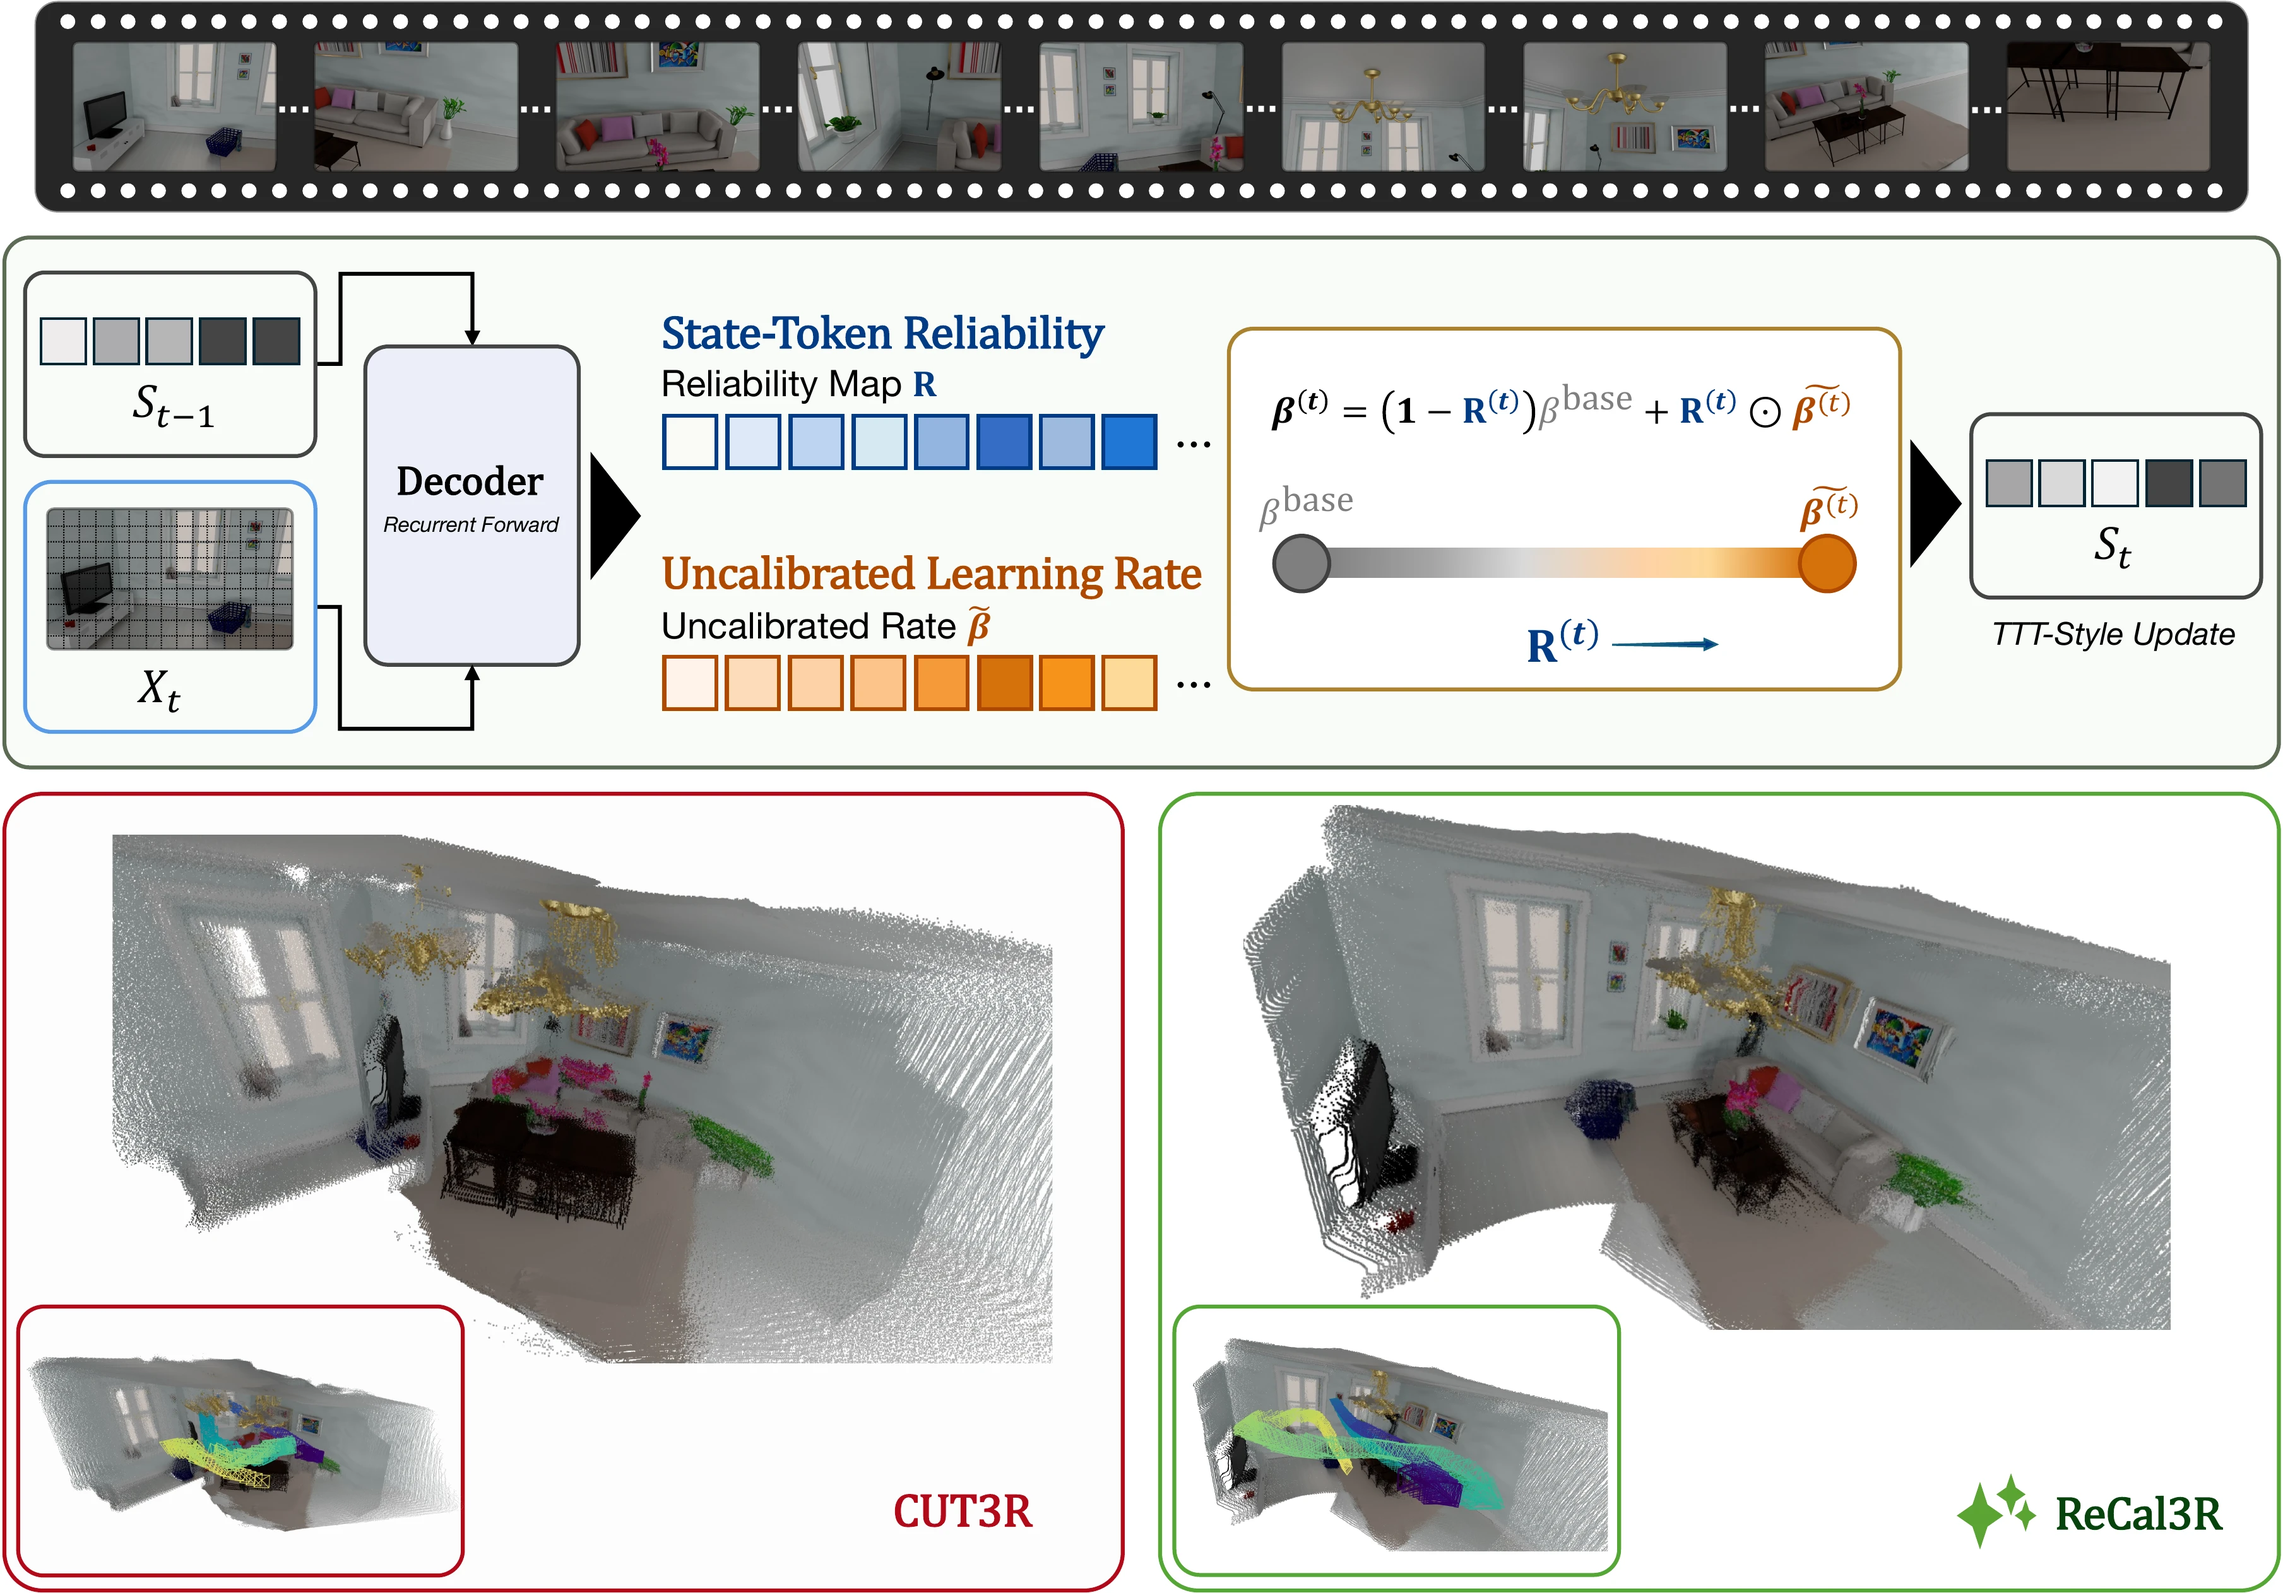
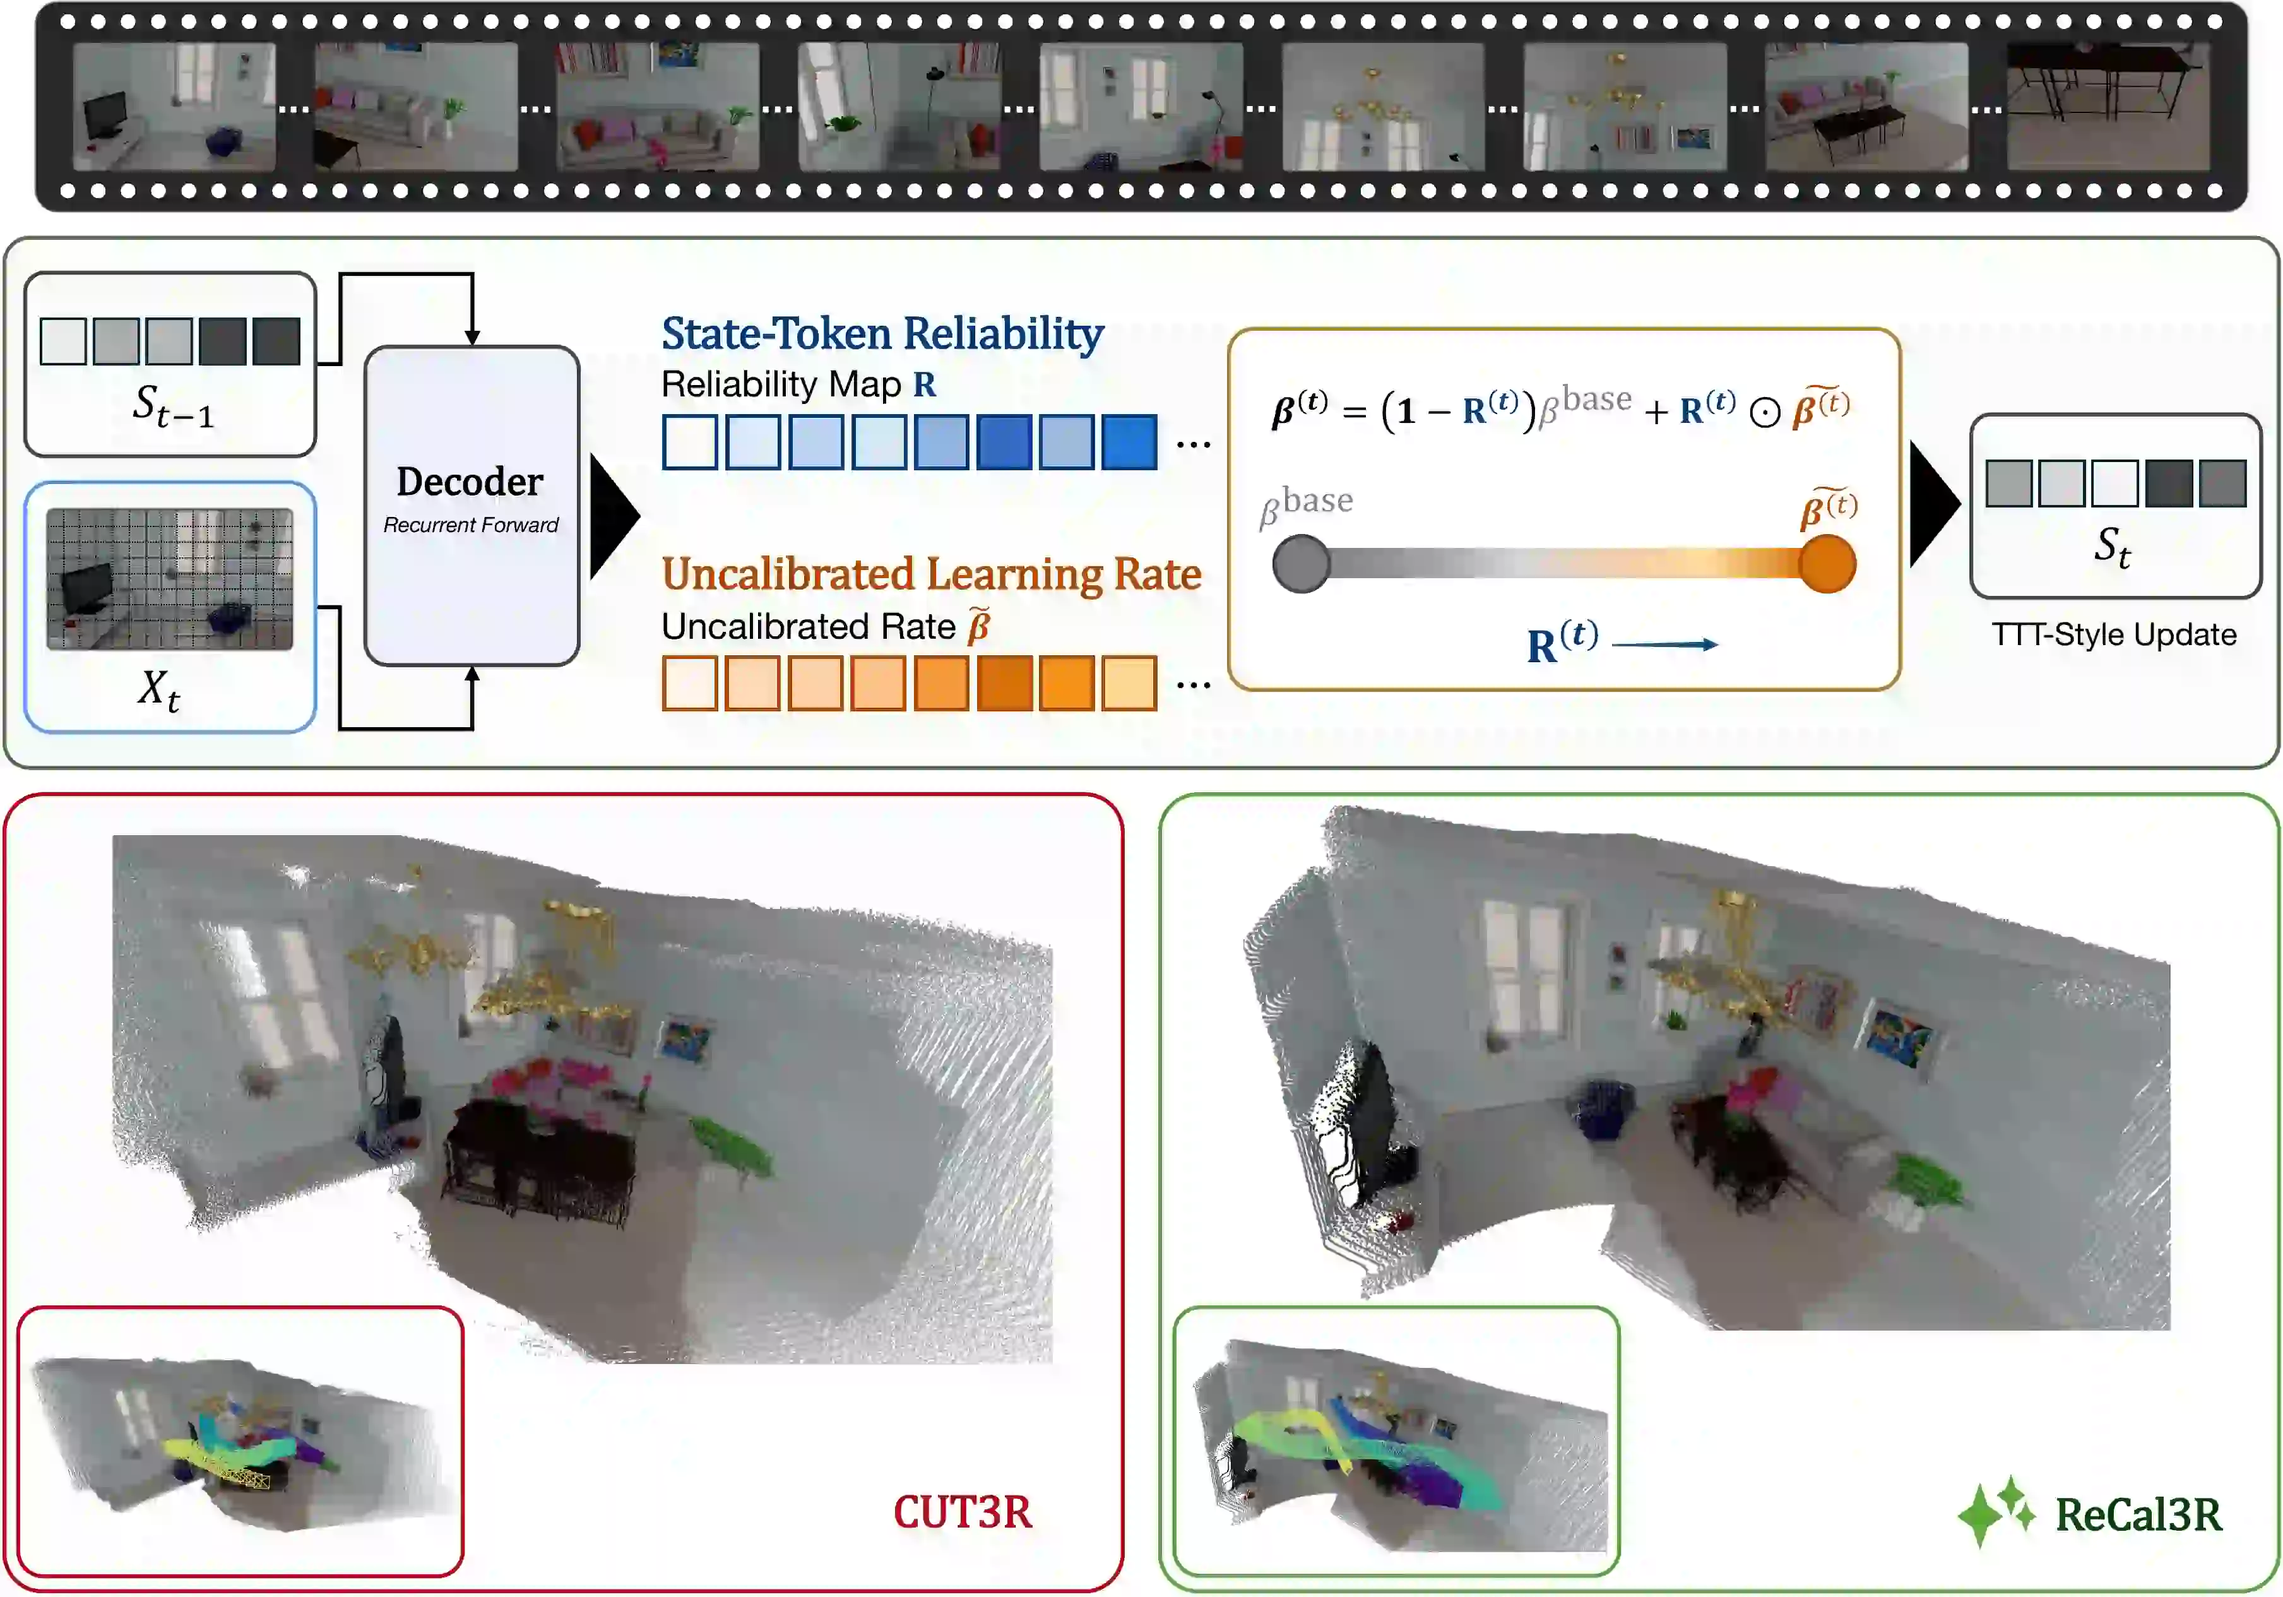
Update method teaser figure

diff --git a/index.html b/index.html
@@ -222,11 +222,11 @@
             <figure class="method-figure teaser-panel">
               <picture>
                 <source
-                  srcset="static/images/recal3r-teaser-hq-1.webp?v=20260624"
+                  srcset="static/images/recal3r-teaser-hq-1.webp?v=20260627"
                   type="image/webp"
                 />
                 <img
-                  src="static/images/recal3r-teaser-hq-1.webp?v=20260624"
+                  src="static/images/recal3r-teaser-hq-1.webp?v=20260627"
                   alt="ReCal3R overview and qualitative comparison against CUT3R"
                 />
               </picture>
